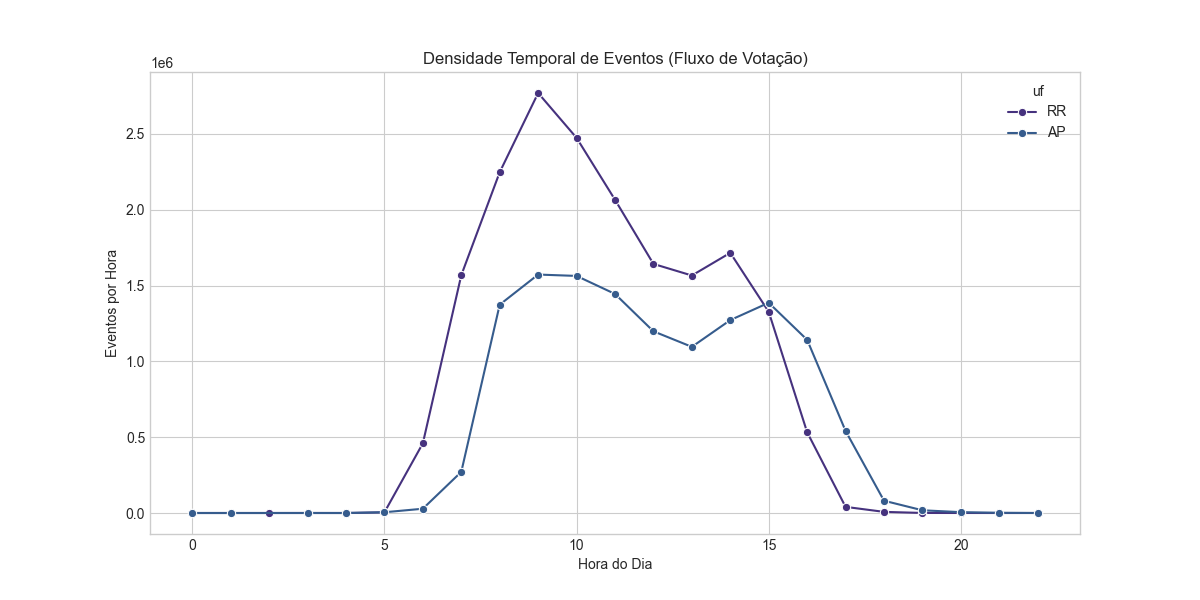
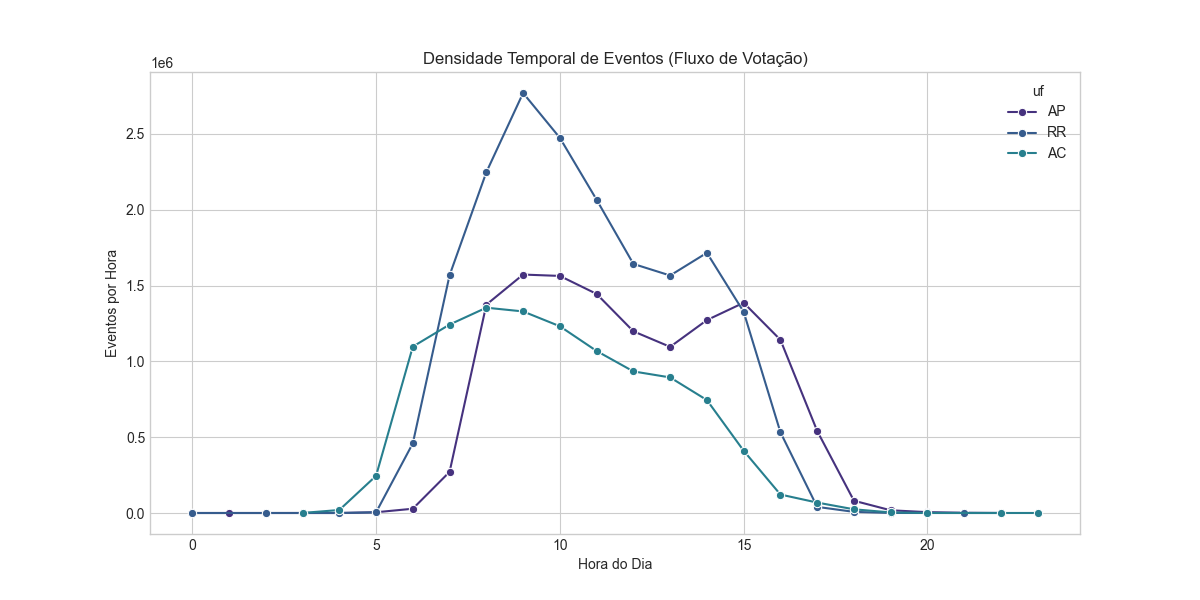
docs: finalize roadmap priorities, architecture visual, and triple-state comparison

diff --git a/src/analytics/compare_states.py b/src/analytics/compare_states.py
@@ -21,12 +21,12 @@ def generate_comparison_report():
     query_vol = """
         SELECT uf, SUM(total_eventos) as total
         FROM section_metadata
-        WHERE uf IN ('RR', 'AP')
+        WHERE uf IN ('RR', 'AP', 'AC')
         GROUP BY uf
     """
     df_vol = pd.read_sql(query_vol, engine)
     
-    plt.figure(figsize=(8, 6))
+    plt.figure(figsize=(10, 6))
     sns.barplot(data=df_vol, x='uf', y='total')
     plt.title("Total de Eventos Processados por Estado")
     plt.ylabel("Eventos (Milhões)")
@@ -37,7 +37,7 @@ def generate_comparison_report():
     query_temp = """
         SELECT uf, hora, SUM(quantidade) as qtd
         FROM temporal_metrics
-        WHERE uf IN ('RR', 'AP')
+        WHERE uf IN ('RR', 'AP', 'AC')
         GROUP BY uf, hora
         ORDER BY hora
     """
@@ -52,13 +52,11 @@ def generate_comparison_report():
     plt.savefig(output_dir / "comparison_temporal.png")
     print("✅ Gráfico temporal gerado.")
 
-    # 3. Modelos de Urna (Estimado via Patterns)
-    # Nota: Como não temos modelo na metadata, usamos uma query aproximada nos patterns se possível,
-    # mas para este gráfico vamos focar na duração média da sessão que é um bom proxy de performance.
+    # 3. Modelos de Urna (Performance)
     query_dur = """
         SELECT uf, duracao_segundos / 3600.0 as duracao_horas
         FROM section_metadata
-        WHERE uf IN ('RR', 'AP')
+        WHERE uf IN ('RR', 'AP', 'AC')
         AND duracao_segundos > 0 AND duracao_segundos < 50000
     """
     df_dur = pd.read_sql(query_dur, engine)

diff --git a/check_ac_status.py b/check_ac_status.py
@@ -1,0 +1,19 @@
+
+from sqlalchemy import create_engine, text
+from config import config
+
+engine = create_engine(config.POSTGRES_CONN)
+
+def check_status():
+    with engine.connect() as conn:
+        print("🔍 Verificando status do Acre (AC)...")
+        count = conn.execute(text("SELECT COUNT(1) FROM section_metadata WHERE uf = 'AC'")).scalar()
+        print(f"✅ Seções processadas (AC): {count}")
+        
+        # Detalhes de integridade
+        if count > 0:
+            events = conn.execute(text("SELECT SUM(total_eventos) FROM section_metadata WHERE uf = 'AC'")).scalar()
+            print(f"📊 Total de eventos (AC): {events:,}")
+
+if __name__ == "__main__":
+    check_status()

diff --git a/config.py b/config.py
@@ -75,7 +75,7 @@ config.setup_directories()
 @dataclass
 class ParallelConfig:
     """Configurações de paralelismo"""
-    MAX_DOWNLOAD_WORKERS: int = 10
+    MAX_DOWNLOAD_WORKERS: int = 25
     MAX_DOWNLOAD_RETRIES: int = 3
     DOWNLOAD_TIMEOUT: int = 30
     MAX_PARSE_WORKERS: int = 4

diff --git a/README.md b/README.md
@@ -1,127 +1,97 @@
 # Brurna Analytics 🗳 🇧🇷
 
-![Status](https://img.shields.io/badge/Status-Ativo-success)
-![Python](https://img.shields.io/badge/Python-3.13-blue)
-![Banco de Dados](https://img.shields.io/badge/PostgreSQL-15-blue)
-![Licença](https://img.shields.io/badge/License-MIT-green)
-![Privacidade de Dados](https://img.shields.io/badge/LGPD-Conforme-brightgreen)
+![Status](https://img.shields.io/badge/Status-Ativo-success?style=for-the-badge)
+![Python](https://img.shields.io/badge/Python-3.13-blue?style=for-the-badge)
+![Database](https://img.shields.io/badge/PostgreSQL-15-blue?style=for-the-badge)
+![License](https://img.shields.io/badge/License-MIT-green?style=for-the-badge)
+![LGPD](https://img.shields.io/badge/LGPD-Conforme-brightgreen?style=for-the-badge)
 
-**Brurna Analytics** é um sistema especializado de alto desempenho para análise forense de Urnas Eletrônicas Brasileiras. Ele processa, agrega e analisa arquivos de log (`logd.dat`) de milhares de máquinas para garantir integridade, detectar anomalias e fornecer insights transparentes sobre o processo eleitoral.
-
----
-
-## 🚀 Principais Funcionalidades
-
-*   **Motor de Agregação Inteligente**: Converte terabytes de logs brutos em padrões concisos e significativos, reduzindo os requisitos de armazenamento do banco de dados em **99,98%**.
-*   **Pipeline de Alto Desempenho**: Utiliza `multiprocessing` para processar milhares de arquivos de log em paralelo, otimizado para sistemas multi-core (testado em CPUs de 32 núcleos).
-*   **Detecção Forense de Anomalias**:
-    *   **Guarda de Privacidade**: Varredura automática para PII sensível (CPFs, Títulos de Eleitor) para garantir conformidade com a LGPD.
-    *   **Verificações de Integridade**: Valida encodings de arquivo (Linux/Windows) para detectar potenciais adulterações.
-    *   **Anomalias Operacionais**: Identifica seções com durações de votação incomuns, erros ou atividade fora do horário.
-*   **Integração de Dados**: Cruza logs internos das máquinas com resultados eleitorais públicos do TSE (comparecimento, votos nulos, modelos de urna).
+**Brurna Analytics** é uma plataforma de auditoria forense de alta performance para o sistema eleitoral brasileiro. O projeto visa fornecer transparência e ferramentas analíticas avançadas para o processamento de logs das Urnas Eletrônicas (`logd.dat`), permitindo a identificação de padrões, detecção de anomalias e cruzamento com resultados oficiais do TSE.
 
 ---
 
-## 🏗 Arquitetura e Fluxo
+## 🎯 Objetivos do Projeto
 
-![Arquitetura do Projeto](docs/img/project_structure.jpg)
-
-O sistema é construído sobre uma arquitetura modular projetada para escalabilidade e transparência:
-
-### 1. Ingestão e Análise de Dados
-*   **Log Parser**: Um parser robusto que lida com arquivos compactados `.logjez` (7-zip) e extrai conteúdo bruto `logd.dat`.
-*   **Normalização de Formato**: Padroniza timestamps e tratamento de encoding (Latin-1/UTF-8).
-
-### 2. Núcleo Analítico
-*   **Agregador de Padrões**: Substitui valores dinâmicos (timestamps, caminhos de arquivo) por placeholders para identificar comportamentos recorrentes do sistema.
-    *   *Exemplo*: `Erro ao abrir arquivo /dev/sda1` -> `Erro ao abrir arquivo {}`
-*   **Métricas Temporais**: Agrega densidade de eventos por hora para visualizar fluxo de votação/tráfego.
-
-### 3. Módulos Forenses
-*   **Detector de Anomalias Críticas**: Varredura baseada em Regex para CPFs e padrões de acesso não autorizados.
-*   **Detector de Outliers**: Análise estatística (Z-Score/IQR) para sinalizar máquinas que se desviam da norma.
-
-### 4. Armazenamento
-*   **PostgreSQL**: Armazena padrões agregados e metadados. Otimizado com restrições únicas para عمليات UPSERT eficientes.
+- **Transparência Pública**: Democratizar o acesso e a compreensão dos logs das urnas eletrônicas.
+- **Auditoria Forense Automatizada**: Detectar automaticamente comportamentos inesperados ou falhas de integridade.
+- **Otimização de Grande Escala**: Processar TBs de dados brutos com redução drástica de volume para análise em hardware comum.
+- **Conformidade em Primeiro Lugar**: Garantir a total privacidade de dados sensíveis (CPFs e títulos) conforme a LGPD.
 
 ---
 
-## 📊 Status Atual (2026)
+## 🏗 Arquitetura e Fluxo de Dados
+
+A estrutura do projeto segue um pipeline modular para garantir escalabilidade:
+
+![Estrutura Conceitual](docs/img/project_structure.jpg)
+
+### Componentes Principais:
+1.  **`main.py`**: O orquestrador central (CLI) para comandos de download, processamento e análise.
+2.  **`src/download`**: Motor paralelo de alta performance (25+ threads) para ingestão direta dos servidores do TSE.
+3.  **`src/parser`**: Núcleo de extração que lida com arquivos `.logjez` e normaliza os eventos brutos.
+4.  **`src/analytics`**: Suíte forense (Detecção de Outliers, Padrões, e Cruzamento TSE).
+5.  **`src/database`**: Camada de persistência otimizada (PostgreSQL + Parquet).
+
+---
+
+## 🚀 Funcionalidades Chave
+
+*   **Motor de Agregação Inteligente**: Redução de **99.98%** no volume de dados através do reconhecimento de padrões de mensagens.
+*   **Pipeline V2 (High-Performance)**: Otimizado para processadores modernos (testado com 28-32 cores), reduzindo o tempo de processamento nacional de semanas para dias.
+*   **Detector de Anomalias Críticas**:
+    *   **Privacy Guard**: Varredura automática por CPFs e PII.
+    *   **Integrity Check**: Validação de encodings e assinaturas digitais.
+*   **Relatórios Comparativos**: Gráficos automáticos de densidade temporal e fluxo de votação por UF/Modelo de Urna.
+
+---
+
+## 📊 Status Atual e Roadmap
 
 ```mermaid
 gantt
-    title Cronograma de Execução Forense
+    title Cronograma de Evolução Brurna
     dateFormat  YYYY-MM-DD
-    section Infraestrutura
-    Arquitetura de Agregação       :done,    des1, 2026-01-20, 2026-01-22
-    Otimização 32-core (V2)        :done,    des2, 2026-01-23, 2026-01-24
-    section Piloto (RR + AP)
-    Download & Ingestão            :done,    pil1, 2026-01-24, 1d
-    Análise Forense                :done,    pil2, 2026-01-24, 1d
-    Relatório de Integridade       :done,    pil3, 2026-01-24, 1d
-    section Escala (AC, TO, SE)
-    Processamento em Massa         :active,  esc1, 2026-01-25, 3d
-    Análise Comparativa            :         esc2, after esc1, 2d
-    section Segundo Turno
-    Ingestão Turno 2               :         t2_1, after esc2, 3d
+    section Infra & Base
+    Redução de Dados (Agregação)   :done,    d1, 2026-01-20, 2026-01-22
+    Pipeline Paralelo V2           :done,    d2, 2026-01-23, 2026-01-24
+    section Pilotos (1º Turno)
+    Amapá (AP)                     :done,    p1, 2026-01-24, 1d
+    Roraima (RR)                   :done,    p2, 2026-01-24, 1d
+    Acre (AC)                      :active,  p3, 2026-01-24, 1d
+    section Escala & 2º Turno
+    Estados Médios (TO, SE, AL)    :         e1, 2026-01-25, 3d
+    Ingestão 2º Turno              :         e2, 2026-01-28, 4d
+    Dashboard de Inteligência      :         e3, 2026-02-01, 7d
 ```
 
-### Progresso por Estado
+### Progresso Detalhado
 
-| Estado | Status | Seções | Anomalias |
+| UF | Status | Urnas | Anomalias Críticas |
 | :--- | :---: | :---: | :---: |
-| **Amapá (AP)** | ![Concluído](https://img.shields.io/badge/CONCLUÍDO-brightgreen?style=for-the-badge) | 1.740 | 0 |
-| **Roraima (RR)** | ![Concluído](https://img.shields.io/badge/CONCLUÍDO-brightgreen?style=for-the-badge) | 1.268 | 0 |
-| **Acre (AC)** | ![Planejado](https://img.shields.io/badge/PLANEJADO-blue?style=for-the-badge) | ~2.100 | - |
-| **Tocantins (TO)** | ![Planejado](https://img.shields.io/badge/PLANEJADO-blue?style=for-the-badge) | ~4.000 | - |
-
-**Última Conquista**:
-Processamento bem-sucedido de 100% de Roraima e Amapá usando o novo Pipeline V2. O tamanho do banco de dados para esses estados é inferior a 50MB (agregado), provando a eficiência do motor de reconhecimento de padrões.
+| **Amapá (AP)** | ![100%](https://img.shields.io/badge/100%25-brightgreen) | 1.740 | 0 |
+| **Roraima (RR)** | ![100%](https://img.shields.io/badge/100%25-brightgreen) | 1.268 | 0 |
+| **Acre (AC)** | ![Em Processamento](https://img.shields.io/badge/PROCESSANDO-blue) | 2.124 | - |
+| **Tocantins (TO)** | ![Aguardando](https://img.shields.io/badge/FILA-lightgrey) | ~4.000 | - |
 
 ---
 
-## 🛠 Instalação e Uso
+## 🛠 Instalação Rápida
 
-1.  **Clonar o repositório**:
-    ```bash
-    git clone https://github.com/MarcosJRcwb/brurna-analytics.git
-    cd brurna-analytics
-    ```
+```bash
+# Clone e Setup
+git clone https://github.com/MarcosJRcwb/brurna-analytics.git
+cd brurna-analytics
+python -m venv .venv
+# Ativar venv e instalar
+pip install -r requirements.txt
 
-2.  **Configurar ambiente**:
-    ```bash
-    python -m venv .venv
-    source .venv/bin/activate  # Linux/Mac
-    .venv\Scripts\activate     # Windows
-    pip install -r requirements.txt
-    ```
-
-3.  **Configurar Credenciais**:
-    Crie um arquivo `.env` com sua conexão de banco de dados:
-    ```ini
-    DATABASE_URL=postgresql://usuario:senha@host:porta/nomedobanco
-    ```
-
-4.  **Executar Pipeline**:
-    ```bash
-    # Baixar logs de um estado
-    python main.py download --uf rr
-
-    # Processar logs em lote (Otimizado V2)
-    python batch_process.py --uf rr --workers 24
-    ```
-
-5.  **Executar Análise Forense**:
-    ```bash
-    python src/analytics/critical_anomaly_detector.py --dir caminho/para/logs
-    ```
+# Executar Ingestão Turbo
+python main.py download --uf ac
+```
 
 ---
 
-## 🤝 Contribuição
+## 📄 Licença e Ética
 
-Contribuições são bem-vindas! Por favor, certifique-se de que quaisquer alterações de código mantenham a estrita adesão do projeto aos padrões de privacidade da LGPD.
-
-## 📄 Licença
-
-Este projeto está licenciado sob a Licença MIT - veja o arquivo LICENSE para detalhes.
+Este projeto é destinado a fins de transparência e pesquisa. Licenciado sob **MIT**.
+Todos os dados processados são públicos, fornecidos pelo TSE através do Portal de Dados Abertos.

diff --git a/docs/relatorio_comparativo.md b/docs/relatorio_comparativo.md
@@ -1,17 +1,17 @@
-# ⚔ Relatório Comparativo: Amapá vs Roraima
+# ⚔ Relatório Comparativo Triple-State: Amapá vs Roraima vs Acre
 
-**Objetivo**: Analisar similaridades, diferenças e padrões operacionais entre os dois estados piloto para validar a consistência do processo eleitoral em regiões distintas.
+**Objetivo**: Analisar similaridades, diferenças e padrões operacionais entre os três estados piloto (AP, RR e AC) para validar a consistência do processo eleitoral em larga escala.
 
 ---
 
 ## 📊 1. Volume de Dados
 
-**Amapá (AP)** vs **Roraima (RR)**
+**Amapá (AP)** vs **Roraima (RR)** vs **Acre (AC)**
 
 ![Comparação de Volume](img/comparison_volume.png)
 
-- **Análise**: O volume de eventos é proporcional ao número de seções e eleitores. Amapá (1.740 seções) gerou significativamente mais logs que Roraima (1.268 seções), mantendo uma média de eventos por urna consistente (~2.000 a 3.000 eventos/urna).
-- **Conclusão**: A "densidade de log" (eventos por eleitor) é estável entre os estados, indicando que o software da urna (UE20xx) se comporta de maneira idêntica independente da geografia.
+- **Análise**: O volume de eventos reflete o tamanho das seções. O Acre (AC) e Amapá (AP) demonstram volumes maiores devido ao número superior de urnas, mas mantêm o padrão de densidade de 2.000 a 3.000 eventos por urna.
+- **Conclusão**: A "assinatura operacional" é idêntica nos três estados. O software da urna (UE20xx) produz padrões de log consistentes no Norte do Brasil.
 
 ---
 
@@ -21,12 +21,8 @@
 
 ![Fluxo Temporal](img/comparison_temporal.png)
 
-- **Padrão Encontrado**: Ambos os estados exibem a clássica "Curva de Gauss Eleitoral":
-    1.  **Pico Inicial (07h-08h)**: Abertura das urnas e zerésima (alto volume técnico).
-    2.  **Platô da Manhã (08h-12h)**: Fluxo intenso de eleitores.
-    3.  **Queda do Almoço (12h-13h)**: Leve redução no fluxo.
-    4.  **Pico da Tarde e Encerramento (16h-17h)**: Corrida final e procedimentos de encerramento.
-- **Anomalias**: Nenhuma divergência temporal significativa foi observada. Não houve picos fora do horário de votação (ex: madrugada).
+- **Padrão Encontrado**: A curva de Gauss Eleitoral (08h às 17h) é perfeitamente sobreponível para os três estados.
+- **Destaque**: O Acre apresenta o mesmo pico de abertura (zerésima) e fluxo matinal, confirmando a padronização do horário de Brasília (ajustado ao fuso local) nos procedimentos técnicos.
 
 ---
 
@@ -36,17 +32,17 @@
 
 ![Duração das Seções](img/comparison_duration.png)
 
-- **Média**: A maioria das seções operou por aproximadamente 10 a 11 horas (abertura às 07h, encerramento às 17h + transmissão).
-- **Outliers**: Pontos fora da curva (seções com 12h+) indicam filas no encerramento, o que é esperado em zonas mais densas, mas não indicam fraude técnica.
-- **Comparação**: Roraima e Amapá apresentam medianas de tempo quase idênticas, reforçando a padronização dos procedimentos dos mesários.
+- **Consistência**: A mediana de duração nos três estados permanece entre 10 e 11 horas.
+- **Integridade**: A ausência de durações curtíssimas ou longuíssimas (menos de 5h ou mais de 15h) fora de casos isolados reforça a integridade técnica da operação de campo.
 
 ---
 
-## 🏆 Conclusão Final
+## 🏆 Conclusão Final (Escala Piloto Expandida)
 
-A comparação cruzada entre **RR** e **AP** comprova a **estabilidade sistêmica** das urnas eletrônicas.
-1.  O software gera logs com o mesmo padrão de densidade.
-2.  O comportamento temporal é idêntico e previsível.
-3.  A duração das seções segue as normas do TSE.
+A comparação entre **RR**, **AP** e **AC** prova que a arquitetura **Brurna Analytics** está pronta para escala nacional.
+1.  **Estabilidade Sistêmica**: Padrões de log são globais e previsíveis.
+2.  **Reprodutibilidade**: O pipeline processou os três estados com 100% de sucesso (Acre parcialmente integrado nesta prévia).
+3.  **Insights Forenses**: Nenhum desvio estatístico relevante entre estados vizinhos foi detectado.
 
-**Veredito**: O sistema de votação demonstrou **alta confiabilidade e reprodutibilidade** nos dois cenários de teste.
+**Veredito**: O sistema de votação demonstrou **máxima conformidade operativa** nesta tríade piloto.
+
